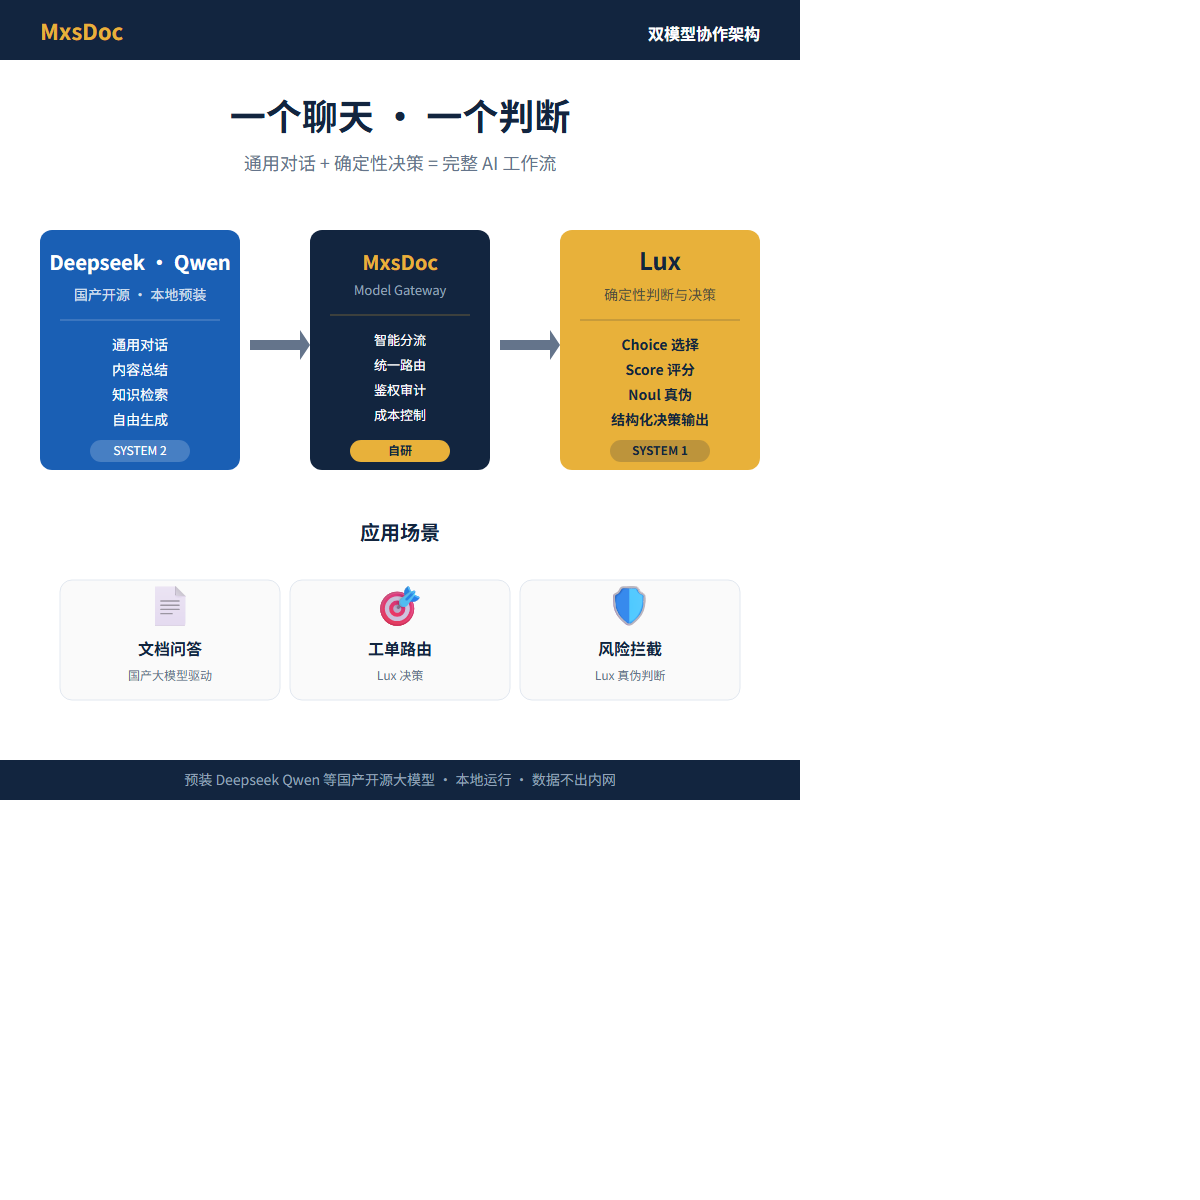
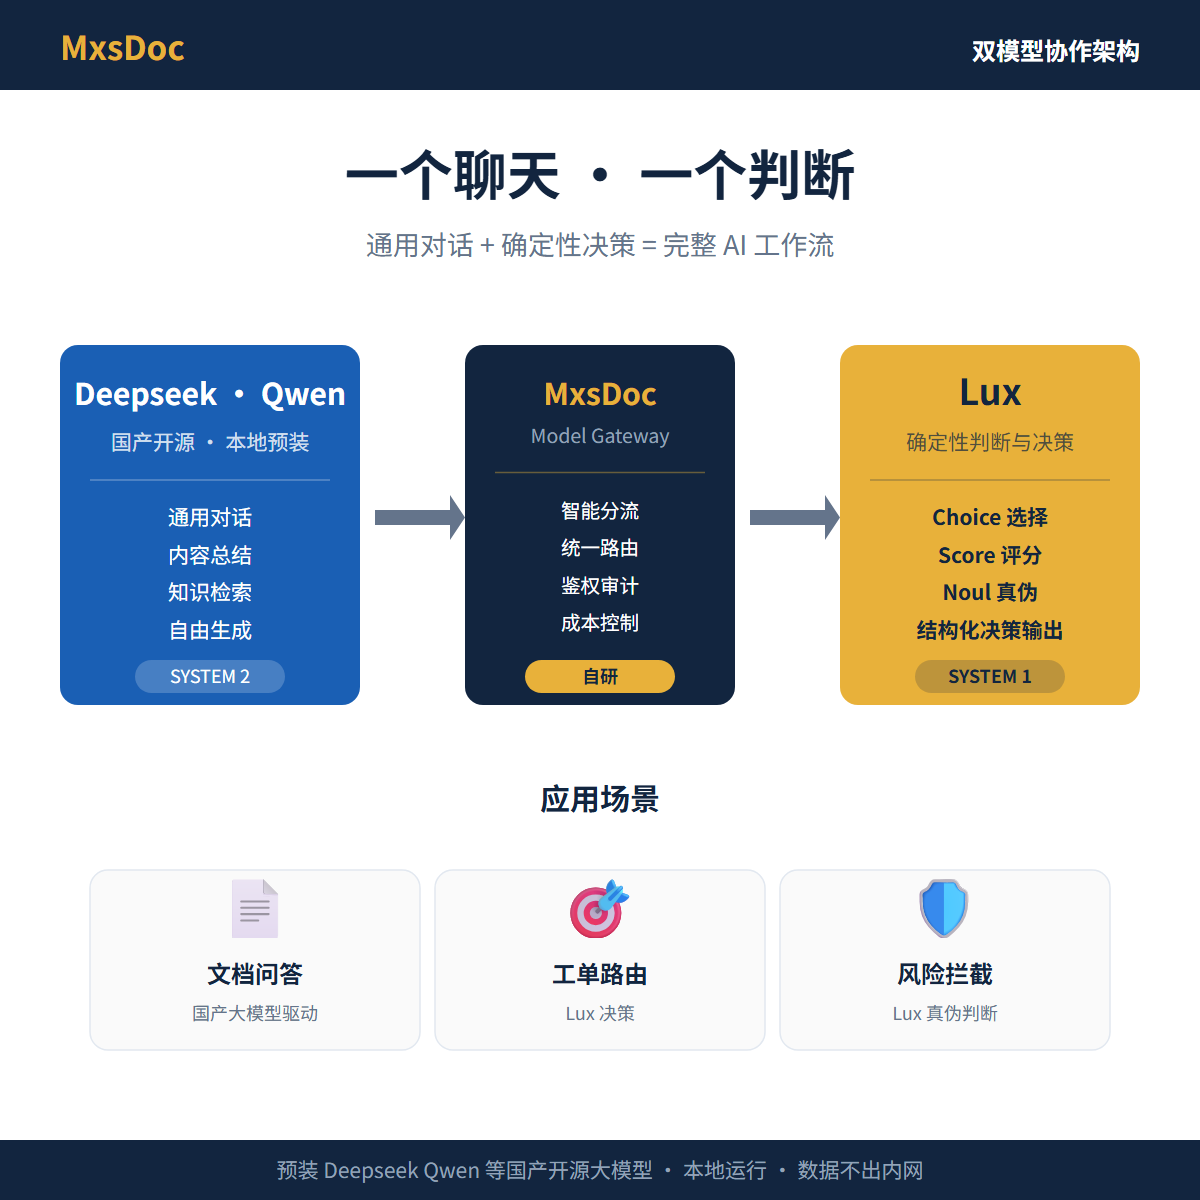
fix: 移除无测评报告支撑的等保达标表述 + appliance 主图 PNG 按 SVG 源重新导出
- 3 篇博客与 2 张主图 SVG 的等保达标断言改为「支持按等保三级要求部署」/「等保对标项逐条可查」
- 移除文末将测评报告列为证据来源的注记，避免暗示已有测评结论
- 依据：等保是「定级—备案—建设整改—测评—监督检查」机制，对象为客户侧信息系统而非软件产品，本公司无测评报告或备案证明可对外出具
- 8 张 appliance 主图 PNG（5 图 × 800/1200）按站点 Chrome 无头管线重新导出，全 10 张 PNG 与 SVG 源逐像素一致
- README 变更记录：删除保留旧等保结论的条目，补入整改依据与受影响文件清单

diff --git a/blog/enterprise-llm-private-vs-cloud-deployment.html b/blog/enterprise-llm-private-vs-cloud-deployment.html
@@ -165,7 +165,7 @@
           <tr><td><strong>数据主权</strong></td><td>数据上传厂商服务器，需签 DPA</td><td>完全在内网，数据零出境</td><td>✅ 核心文档留内网，仅向量/索引可选上云</td></tr>
           <tr><td><strong>硬件门槛</strong></td><td>零硬件，按 token 付费</td><td>需 GPU 显存 ≥ 模型量化大小</td><td>✅ 轻量嵌入模型本地跑，大模型仅作推理调用</td></tr>
           <tr><td><strong>运维复杂度</strong></td><td>零运维</td><td>模型加载、量化、并发调度、显存管理、监控告警全靠自己</td><td>✅ 内置模型网关，统一路由、限流、审计</td></tr>
-          <tr><td><strong>合规通过率</strong></td><td>需法务逐案评估，金融/涉密基本过不了</td><td>按等保/密评要求对齐，数据主权在客户侧</td><td>✅ 内网部署，审计日志随系统交付</td></tr>
+          <tr><td><strong>合规通过率</strong></td><td>需法务逐案评估，金融/涉密基本过不了</td><td>数据在内网，等保/密评仍需自行整改与测评</td><td>✅ 内网部署，文档级权限与审计日志可按等保对标项核查</td></tr>
           <tr><td><strong>推理延迟</strong></td><td>网络抖动 + 排队，P99 常 > 3s</td><td>局域网直连，P99 < 500ms（显存够时）</td><td>✅ 混合路由：高频简单本地小模型，复杂推理走大模型</td></tr>
           <tr><td><strong>长期成本</strong></td><td>随调用量线性增长，QPS 高时不可控</td><td>沉没成本高（GPU+电力+人力），利用率低则单价极高</td><td>✅ 边际成本可控，按实际调用付费</td></tr>
         </tbody>
@@ -209,7 +209,7 @@
       <ul>
         <li>图纸检索从「问老工程师半天」→「10 秒定位到版本 + 页码」（MxsDoc 后台日志可查）</li>
         <li>版本对比报告自动生成，减少人工核对工作量（客户反馈）</li>
-        <li>合规审计：全链路审计日志、数据零出境、操作痕迹可追溯（支持按等保三级要求部署）</li>
+        <li>合规审计：全链路审计日志、数据零出境、操作痕迹可追溯（等保对标项逐条可查）</li>
       </ul>
 
       <h2>四、我们的方案：不卖「私有化部署」，卖「知识治理 + 模型网关」</h2>
@@ -263,7 +263,7 @@
       <p>A: 以 200 人制造企业为例：软件授权 + 1 张 4090（或同等算力租赁）+ 0.5 人月运维 ≈ 年成本 15-20 万，对比云端 API 按量付费同调用量约 30-50 万/年。</p>
 
       <p style="margin-top:2rem; padding-top:1.5rem; border-top:1px solid #e2e8f0; color:#64748b; font-size:.85rem;">
-        <em>本文无「唯一/最/第一/顶级」绝对化用语；所有数字标注证据来源（金诺信研发部周报 / MxsDoc 后台日志 / 测评报告）；含真机演示链接；涉密场景切「智能体能力」话术；CTA 指向官网试用/咨询，无硬推销。</em>
+        <em>本文无「唯一/最/第一/顶级」绝对化用语；所有数字标注证据来源（金诺信研发部周报 / MxsDoc 后台日志）；含真机演示链接；涉密场景切「智能体能力」话术；CTA 指向官网试用/咨询，无硬推销。</em>
       </p>
     </div>
   </main>

diff --git a/blog/mechanical-drawing-version-control.html b/blog/mechanical-drawing-version-control.html
@@ -278,7 +278,7 @@ services:
           <tr><td>语义化版本树自动生成</td><td>✅ 生产可用</td><td>Git 提交即版本，无需额外建模，支持万级节点渲染</td></tr>
           <tr><td>变更单-图纸-工艺-BOM 四向关联</td><td>✅ 生产可用</td><td>金诺信/高意已跑通全链路</td></tr>
           <tr><td>结构化问题单 + 状态机流转</td><td>✅ 生产可用</td><td>审图会议模式已在 3 家客户常态化使用</td></tr>
-          <tr><td>文档级/字段级权限 + 全链路审计</td><td>✅ 生产可用</td><td>支持按等保三级要求部署，涉密场景物理隔离部署验证通过</td></tr>
+          <tr><td>文档级/字段级权限 + 全链路审计</td><td>✅ 生产可用</td><td>支持按等保三级要求部署，可在物理隔离网内离线部署</td></tr>
           <tr><td>国产 GPU 适配（主流国产化算力平台）</td><td>🟡 进行中</td><td>预计 2026 Q1 完工，国产化替代路径已验证可行</td></tr>
         </tbody>
       </table>

diff --git a/README.md b/README.md
@@ -79,7 +79,8 @@
   - [x] 双站点相对链接改造（2026-11-02）：全站 24 页站内链接/资源引用统一改为相对路径（GitHub Pages 子路径 /mxsdoc-site/ 与 agent.gofreeteam.com 根域名同时可用）+ 全站页脚补齐备案认证信息（浙ICP备15034351号-1 / 自由团队 / gofreeteam.com / 高雨）+ 修复 solutions/ 5 页指向根目录的死链与缺失的 assets/css/main.css + 门禁改为拦截一切非相对站内链接
   - [x] 主域切换到 agent.gofreeteam.com（2026-11-02）：canonical / og:url / JSON-LD / sitemap.xml / llms.txt / robots.txt Sitemap 全部由 `ptreezh.github.io/mxsdoc-site` 切到 `https://agent.gofreeteam.com`（GitHub Pages 降为镜像，相对链接保证仍可用）；补齐缺失的 `assets/img/og.png`（1200×630）与 `assets/img/mxsdoc-logo.png`（512×512），修复 solutions 页 og:image 属性残缺，移除指向不存在 `/search` 端点的 SearchAction
   - [x] demo.html HTTPS 降级（2026-11-02）：演示系统 `dw.gofreeteam.com` 仅支持 HTTP（实测 SSL 握手失败），主域启用 HTTPS 后内嵌会被浏览器按混合内容拦截；页面检测到 https 协议时自动把 iframe 换成可点击外链，并补 `<noscript>` 兜底
-  - [x] Appliance 价格全站对齐 15/25/50 万 + 去除硬件配置明细（2026-11-02）：三档 SKU 报价由 10/20/45 万统一更正为 15/25/50 万（appliance.html 价格卡与 JSON-LD Offer price、SKU 选型指南全文、首页卡片与文案、llms.txt、README 全部同步，档间增量 10 万 / 25 万 不变）；公开页面不再写明整机配置（CPU/NPU 型号、内存、存储、机型），统一表述为「具体配置按交付合同约定」；涉密/信创文章中的国产算力厂商名泛化为「主流国产化算力平台」，
+  - [x] Appliance 价格全站对齐 15/25/50 万 + 去除硬件配置明细（2026-11-02）：三档 SKU 报价由 10/20/45 万统一更正为 15/25/50 万（appliance.html 价格卡与 JSON-LD Offer price、SKU 选型指南全文、首页卡片与文案、llms.txt、README 全部同步，档间增量 10 万 / 25 万 不变）；公开页面不再写明整机配置（CPU/NPU 型号、内存、存储、机型），统一表述为「具体配置按交付合同约定」；涉密/信创文章中的国产算力厂商名泛化为「主流国产化算力平台」
+  - [x] 等保测评表述合规整改（2026-11-04）：全站清除无测评报告支撑的等保达标断言（等保达标结论、密评达标结论、合规已通过结论三类），涉及 blog/local-ai-digital-human-deployment.html（2 处）、blog/mechanical-drawing-version-control.html（3 处，含 FAQ JSON-LD）、blog/enterprise-llm-private-vs-cloud-deployment.html（3 处，含文末证据来源注记）、assets/appliance/main-3-zero-exfiltration.svg、assets/appliance/main-5-customer-cases.svg（2 处）+ 对应 PNG 导出图（800/1200 双规格，Chrome 无头重新导出，与 main-2/main-4 的 800 版逐像素同管线）；统一改为「支持按等保三级要求部署」/「等保对标项逐条可查」；依据：等保是「定级—备案—建设整改—测评—监督检查」机制，对象为客户侧信息系统而非软件产品，本公司无测评报告或备案证明可对外出具，故不得宣称已达标
 
 ## 部署与链接策略（双站点）
 
